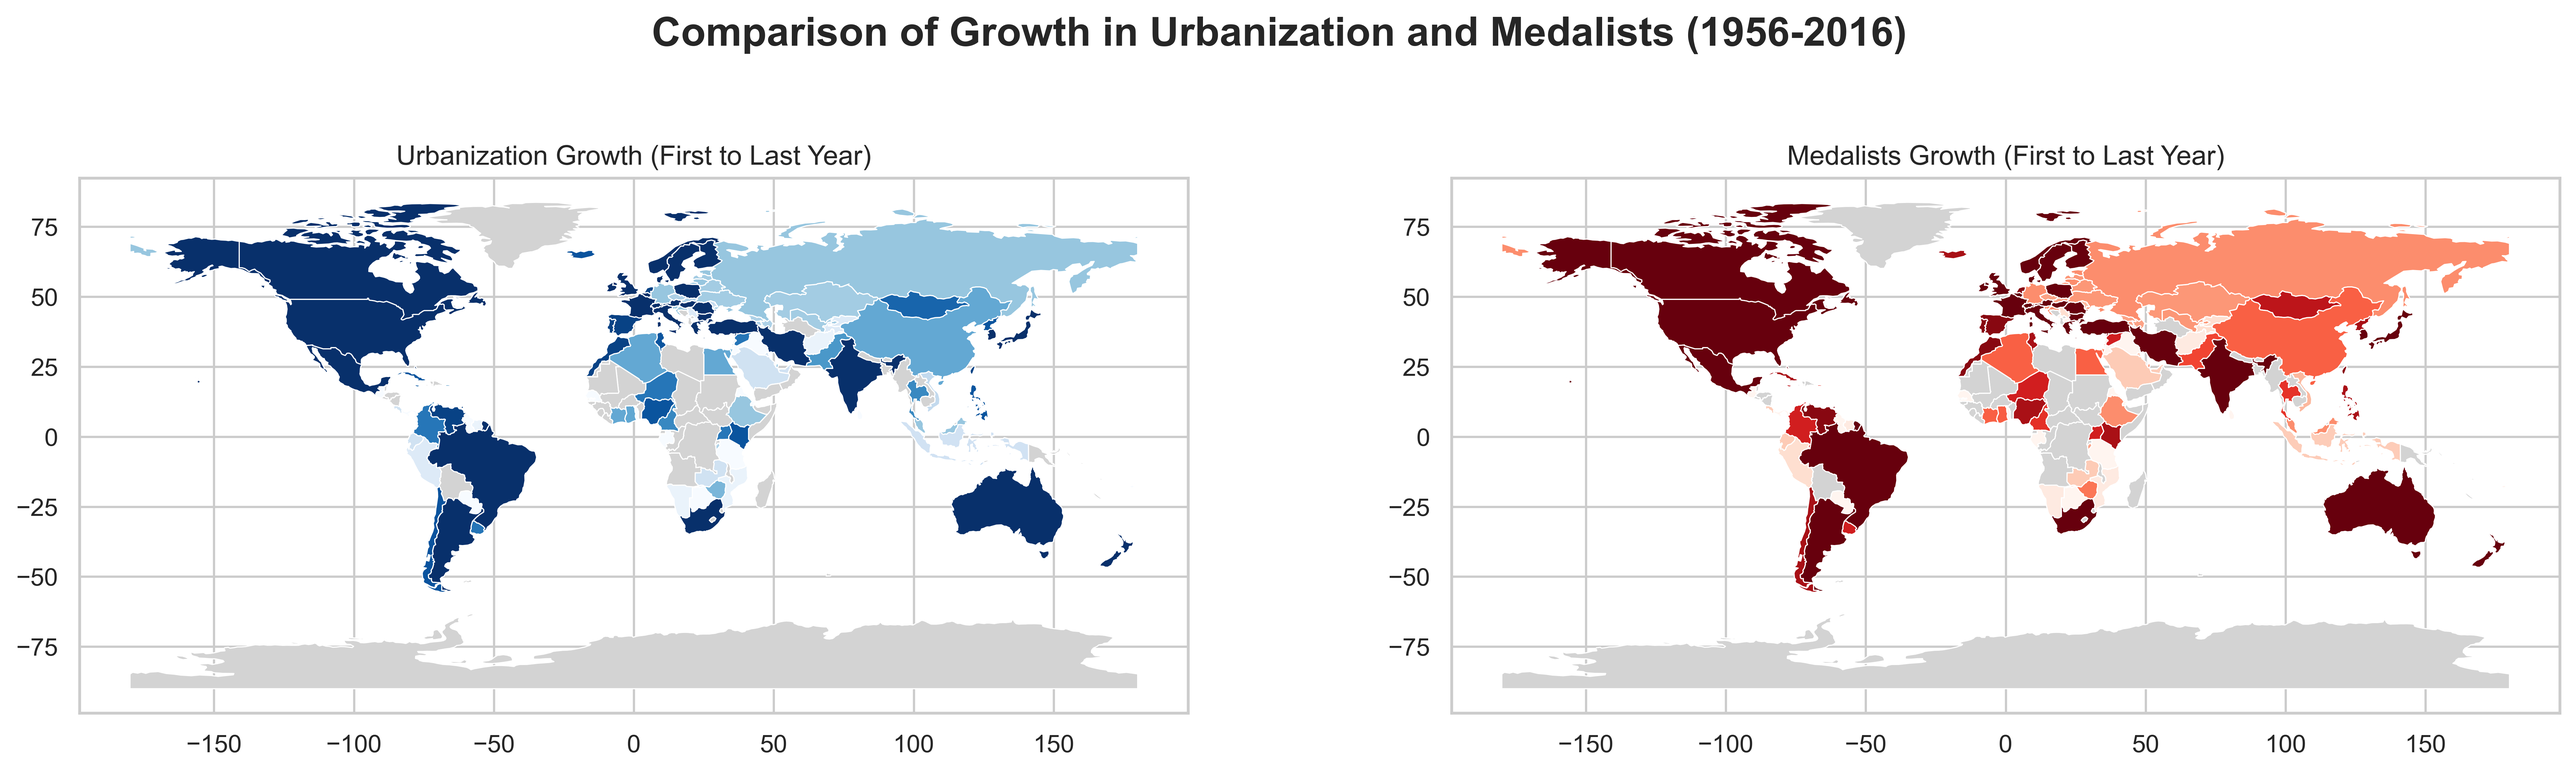
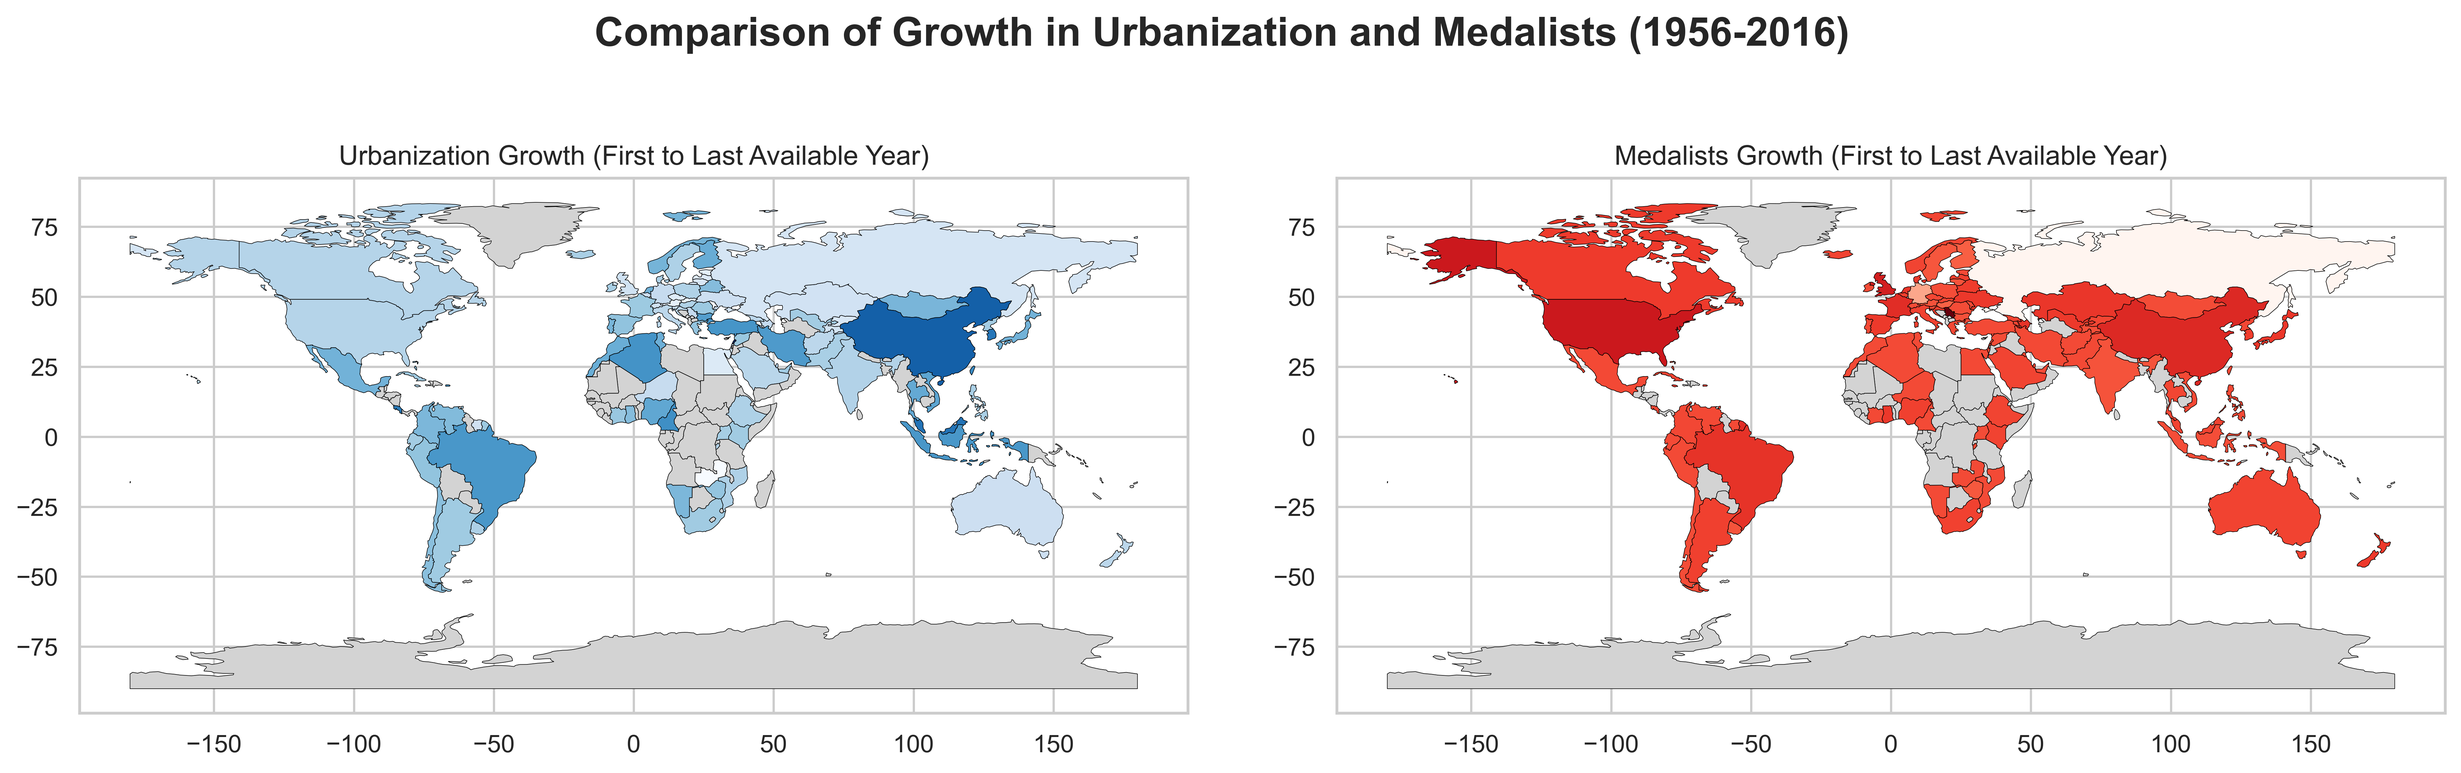
geographic analysis

diff --git a/src/medalist_x_urbanization_analysis.py b/src/medalist_x_urbanization_analysis.py
@@ -141,9 +141,16 @@ def calculate_dynamic_growth(data: pd.DataFrame, value_column: str) -> pd.DataFr
 
     # Merge first and last year dataframes
     growth_df = pd.merge(first_year, last_year, on='Country')
+    growth_df.to_csv(f'data/df_checkpoints/growth_{value_column}_checkpoint.csv', index=False) # Checkpoint para análise
+    
+    column_growth = (growth_df[f'{value_column}_first'].astype(float) - growth_df[f'{value_column}_last'].astype(float))
+    year_growth = (growth_df['First_Year'] - growth_df['Last_Year']).astype(float)
 
     # Calcula crescimento percentual
-    growth_df[f'{value_column}_Growth'] = ((growth_df['Last_Year'] - growth_df['First_Year']) / growth_df['First_Year']) * 100
+    try:
+        growth_df[f'{value_column}_Growth'] = (column_growth / year_growth) * 100
+    except ZeroDivisionError: # Caso onde o primeiro e o último ano são iguais
+        growth_df[f'{value_column}_Growth'] = 0
     
     return growth_df[['Country', f'{value_column}_Growth']]
 
@@ -171,12 +178,13 @@ def save_map_visualization(data: pd.DataFrame) -> None:
     # Plot crescimento da urbanização
     plt.figure()
     fig, ax = plt.subplots(1, 2, figsize=(20, 10))
-    world_urban.plot(column='Urban_Pop_Percent_Growth', cmap='Blues', legend=False, ax=ax[0], missing_kwds={'color': 'lightgrey'}, linewidth=0.5)
-    ax[0].set_title('Urbanization Growth (First to Last Year)')
+    plt.subplots_adjust(wspace=0)  # Adjust the width space between subplots
+    world_urban.plot(column='Urban_Pop_Percent_Growth', cmap='Blues', legend=False, ax=ax[0], missing_kwds={'color': 'lightgrey'}, linewidth=0.25, edgecolor='black')
+    ax[0].set_title('Urbanization Growth (First to Last Available Year)')
 
     # Plot crescimento de medalhistas
-    world_medals.plot(column='Medalists_Growth', cmap='Reds', legend=False, ax=ax[1], missing_kwds={'color': 'lightgrey'}, linewidth=0.5)
-    ax[1].set_title('Medalists Growth (First to Last Year)')
+    world_medals.plot(column='Medalists_Growth', cmap='Reds', legend=False, ax=ax[1], missing_kwds={'color': 'lightgrey'}, linewidth=0.25, edgecolor='black')
+    ax[1].set_title('Medalists Growth (First to Last Available Year)')
     
     fig.suptitle('Comparison of Growth in Urbanization and Medalists (1956-2016)', fontsize=18, weight='bold')
     plt.subplots_adjust(bottom=0.55)
@@ -184,7 +192,7 @@ def save_map_visualization(data: pd.DataFrame) -> None:
     plt.savefig('graphs/geographic_growth.png', dpi=500, bbox_inches='tight')
 
 
-# Função interna para encontrar países com nomes diferentes; alguns só não existem no GeoPandas (e.g. Singapura)
+# Função interna para encontrar países com nomes diferentes; alguns não existem no GeoPandas (e.g. Singapura)
 def find_mismatched_countries(data: pd.DataFrame) -> pd.DataFrame:
     """Find countries in the data that have mismatched names compared to GeoPandas world data.
 
